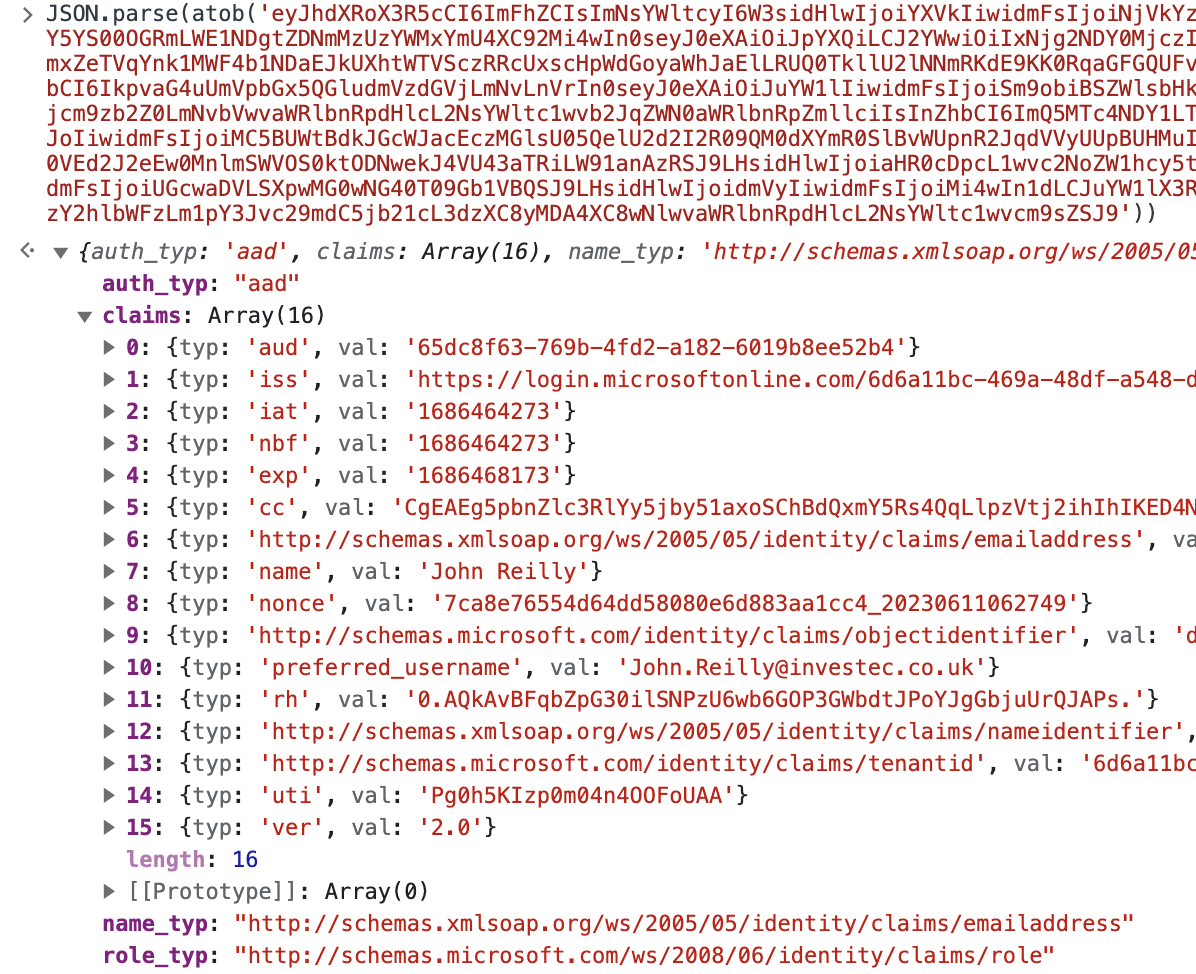
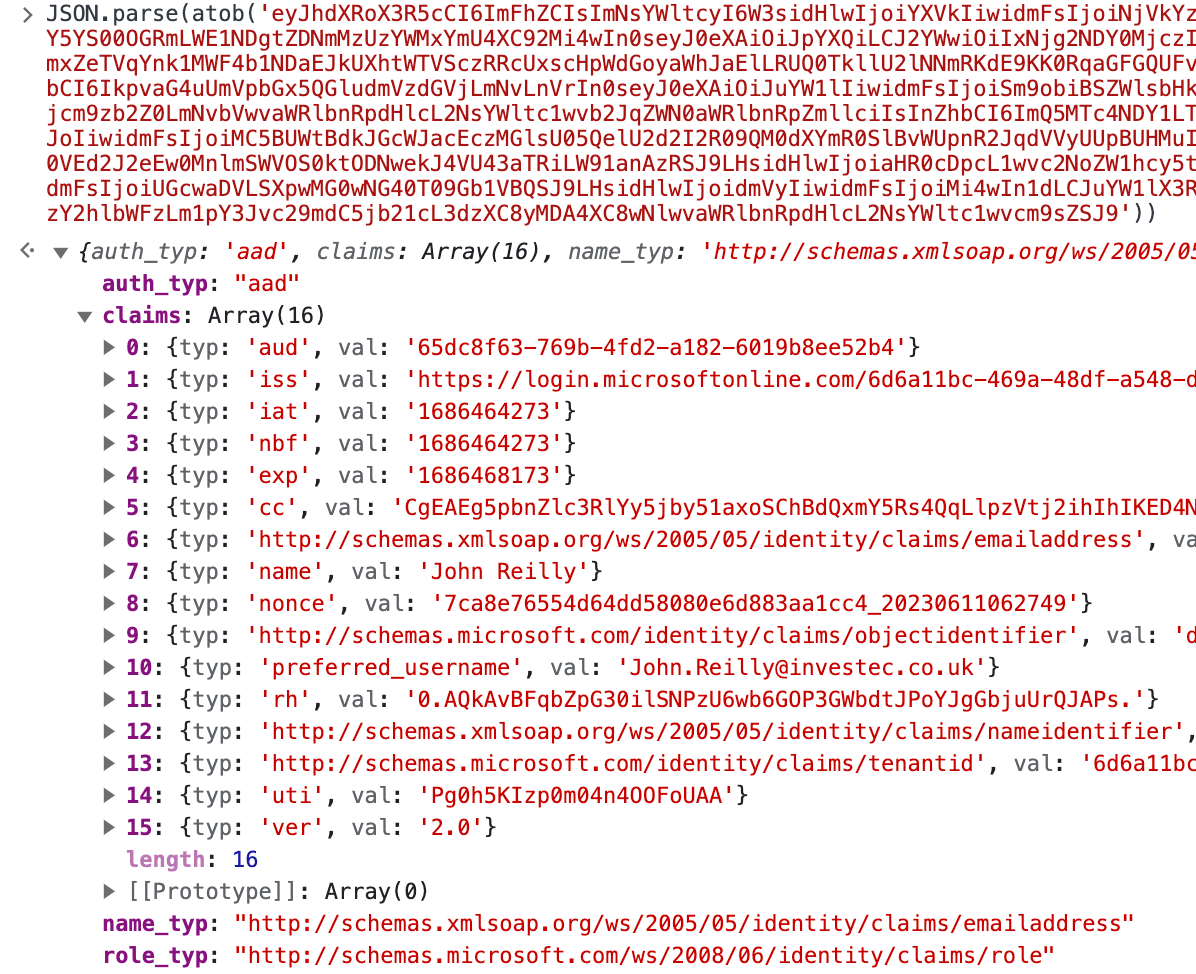
feat: shrink

diff --git a/blog-website/blog/2023-06-11-azure-container-apps-easy-auth-and-dotnet-authentication/index.md b/blog-website/blog/2023-06-11-azure-container-apps-easy-auth-and-dotnet-authentication/index.md
@@ -27,8 +27,7 @@ I recently started building a .NET application using Easy Auth and deploying to 
 
 > For all language frameworks, Container Apps makes the claims in the incoming token available to your application code. The claims are injected into the request headers, which are present whether from an authenticated end user or a client application. External requests aren't allowed to set these headers, so they're present only if set by Container Apps. Some example headers include:
 >
-> `X-MS-CLIENT-PRINCIPAL-NAME`
-> `X-MS-CLIENT-PRINCIPAL-ID`
+> `X-MS-CLIENT-PRINCIPAL-NAME` > `X-MS-CLIENT-PRINCIPAL-ID`
 >
 > **Code that is written in any language or framework can get the information that it needs from these headers.**
 
@@ -36,7 +35,7 @@ The emphasis above is mine. What it's saying here is this: **you need to impleme
 
 Sure enough, when I inspected the headers in my application, I could see these:
 
-![screenshot of easy auth headers including X-MS-CLIENT-PRINCIPAL-NAME`, `X-MS-CLIENT-PRINCIPAL-ID`, `X-MS-CLIENT-PRINCIPAL-IDP` and `X-MS-CLIENT-PRINCIPAL`](screenshot-easy-auth-headers.png)
+![screenshot of easy auth headers including X-MS-CLIENT-PRINCIPAL-NAME`, `X-MS-CLIENT-PRINCIPAL-ID`, `X-MS-CLIENT-PRINCIPAL-IDP` and `X-MS-CLIENT-PRINCIPAL`](screenshot-easy-auth-headers.webp)
 
 The `X-MS-CLIENT-PRINCIPAL` header is particularly interesting. From the appearance, you might assume it's a [JWT](https://jwt.io/). It's not. It's actually a base 64 encoded JSON string that represents the signed in user and their claims. It's actually super easy to decode in your browser devtools:
 
